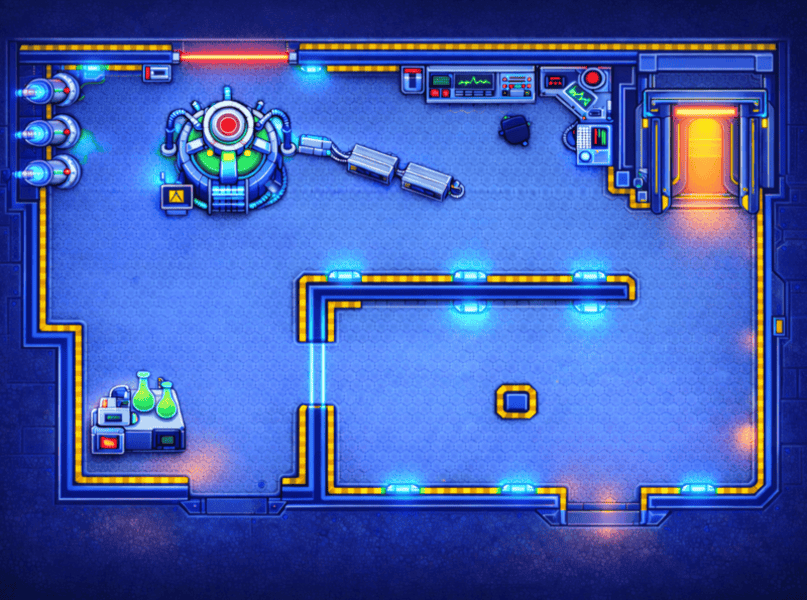
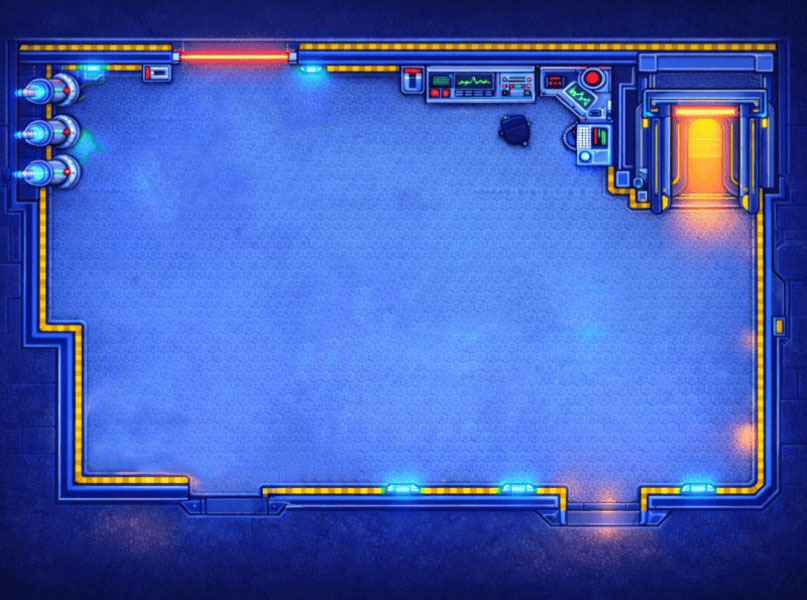
Remove walls and furniture

diff --git a/src/menu_gameScene.cpp b/src/menu_gameScene.cpp
@@ -231,9 +231,9 @@ QGraphicsView* MenuWindow::createGameView(QGraphicsScene* scene) {
         scene->addItem(new Wall(x, y, w, h));
     };
 
-    auto addBox = [&](int x, int y, int w, int h) {
-        scene->addItem(new Furniture(x, y, w, h));
-    };
+    // auto addBox = [&](int x, int y, int w, int h) {
+    //     scene->addItem(new Furniture(x, y, w, h));
+    // };
 
     auto addTrap = [&](int x, int y, int w, int h) {
         scene->addItem(new Trap(x, y, w, h));
@@ -299,50 +299,6 @@ QGraphicsView* MenuWindow::createGameView(QGraphicsScene* scene) {
     addWall(0, 494, 800, 106);
     addWall(771, 0, 29, 199);
     addWall(766, 198, 34, 296);
-    addWall(301, 276, 34, 64);
-    addWall(335, 276, 292, 24);
-    addWall(304, 404, 31, 89);
-    addWall(45, 327, 32, 15);
-    addWall(505, 390, 26, 24);
-
-    // FURNITURE
-    addBox(48, 48, 126, 26);
-    addBox(303, 50, 462, 19);
-    addBox(579, 68, 59, 98);
-    addBox(403, 72, 175, 29);
-    addBox(615, 170, 27, 31);
-    addBox(51, 83, 27, 98);
-    addBox(91, 383, 96, 71);
-    addBox(307, 132, 24, 25);
-    addBox(403, 179, 61, 10);
-    addBox(339, 153, 57, 20);
-    addBox(418, 189, 40, 12);
-    addBox(353, 141, 23, 11);
-    addBox(397, 165, 56, 12);
-    addBox(504, 120, 28, 21);
-
-    // MACHINE
-    addBox(164, 186, 29, 22);
-    addBox(196, 200, 85, 7);
-    addBox(211, 208, 39, 7);
-    addBox(195, 185, 85, 15);
-    addBox(183, 131, 101, 54);
-    addBox(193, 116, 83, 16);
-    addBox(206, 106, 54, 10);
-    addBox(226, 88, 8, 18);
-    addBox(234, 102, 10, 4);
-    addBox(216, 102, 10, 4);
-    addBox(187, 124, 6, 7);
-    addBox(199, 112, 6, 4);
-    addBox(284, 134, 23, 20);
-    addBox(170, 121, 12, 32);
-    addBox(176, 111, 17, 8);
-    addBox(196, 101, 5, 10);
-    addBox(261, 101, 4, 9);
-    addBox(286, 117, 5, 17);
-    addBox(271, 110, 14, 6);
-    addBox(284, 166, 5, 21);
-    addBox(280, 186, 6, 9);
 
     // DOOR
     Door* door = new Door(658, 155, 100, 25);

diff --git a/src/enemies.cpp b/src/enemies.cpp
@@ -124,12 +124,12 @@ Robot::Robot(Player* t) : Enemy(100, ":/assets/Standing_Robot.png", 3) {
     setTarget(t);
 
    QTimer* timer2 = new QTimer(this);
+
     // The "Chase & Attack" Algorithm
     // Every 50ms, we are checking whether the player is colliding with the robot
     // If they are colliding, the robot will attack.
     // Otherwise, the robot will chase the player!
 
-   // This is the evil timer. After every 50ms, the enemy will either attack or chase the player! 
    QObject::connect(timer2, &QTimer::timeout, [this, timer, timer2]() {
 
     // When the game is paused, we want the enemies to stop what they're doing!
@@ -145,7 +145,6 @@ Robot::Robot(Player* t) : Enemy(100, ":/assets/Standing_Robot.png", 3) {
         delete this;
         return;
     }
-
 
     if (target->collidesWithItem(this)) {
         this->Attack();

diff --git a/src/main.cpp b/src/main.cpp
@@ -72,6 +72,7 @@ int main(int argc, char* argv[]) {
         // Adding in the robots..
         for (int i = 0; i < number_of_robots; i++) {
             robots[i] = new Robot(player);
+            
             // So that the robot appears over the background..
             robots[i]->setZValue(10);
         }
@@ -79,7 +80,7 @@ int main(int argc, char* argv[]) {
         robots[1]->setPos(336, 225);
         robots[2]->setPos(109, 219);
         robots[3]->setPos(246, 450);
-        robots[4]->setPos(453, 461);
+        robots[4]->setPos(453, 450);
 
         for (int i = 0; i < number_of_robots; i++) {
             scene->addItem(robots[i]);